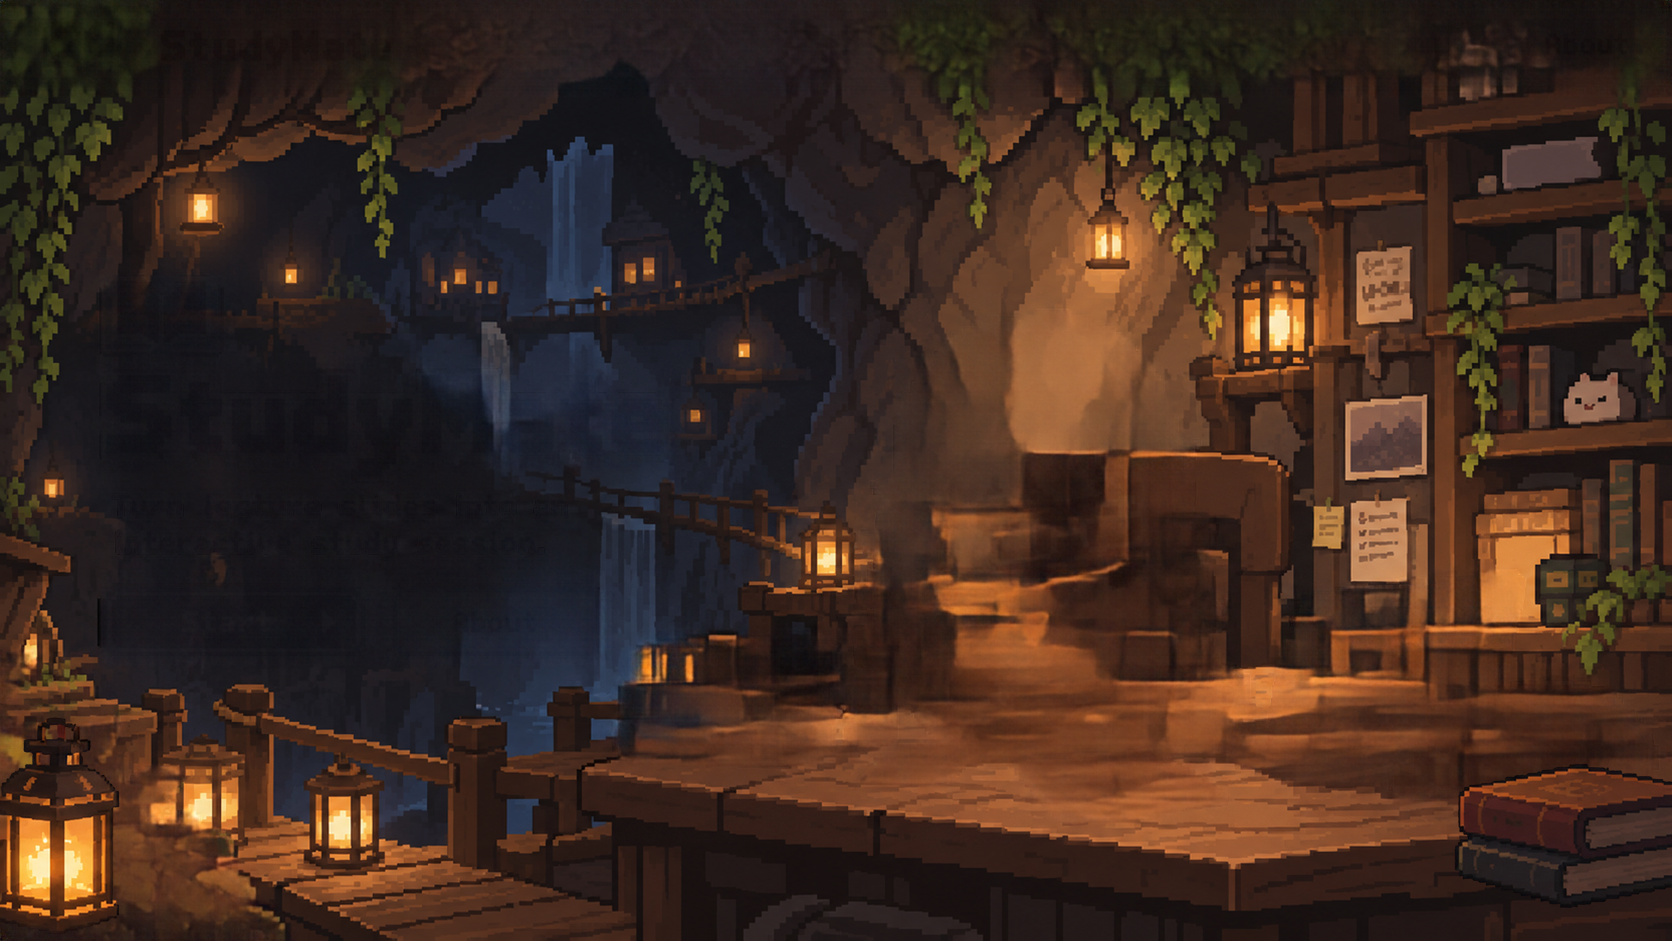
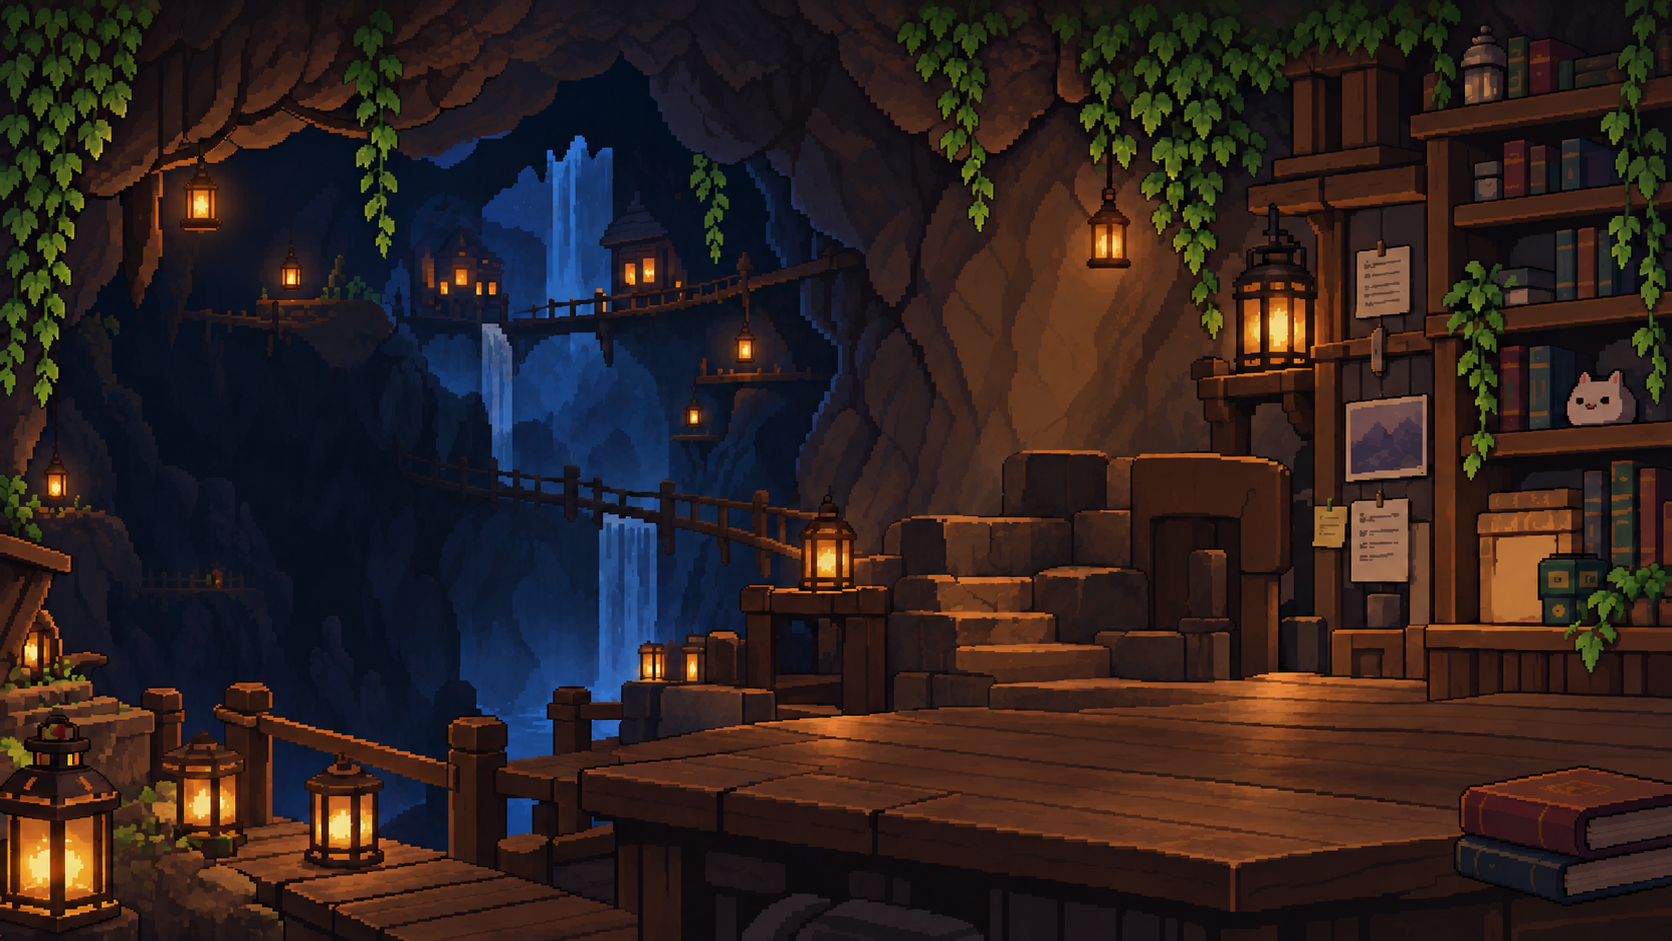
Refactor code structure for improved readability and maintainability

diff --git a/frontend/src/App.css b/frontend/src/App.css
@@ -7,7 +7,7 @@
   --line: #d89b70;
   --muted: #a99d95;
   --pixel-font: "Pixelify Sans", "Jersey 10", monospace;
-  --pixel-display: "Press Start 2P", "Pixelify Sans", monospace;
+  --pixel-display: "Jersey 10", "Pixelify Sans", monospace;
 }
 
 @keyframes header-drop {
@@ -345,8 +345,9 @@ button {
 .page-title {
   animation: small-bob 4.4s steps(4, end) infinite;
   font-family: var(--pixel-display);
-  font-size: clamp(27px, 2.65vw, 45px);
-  line-height: 1;
+  font-size: clamp(45px, 4.6vw, 78px);
+  font-weight: 400;
+  line-height: 0.82;
   margin: 0;
   text-align: center;
 }

diff --git a/frontend/src/pages/HomePage.jsx b/frontend/src/pages/HomePage.jsx
@@ -1,4 +1,4 @@
-import background from '../assets/home-page/background.png'
+import background from '../assets/home-page/background.gif'
 import aboutButton from '../assets/home-page/about-button.png'
 import startButton from '../assets/home-page/start-button.png'
 import heroTitle from '../assets/hero.png'
